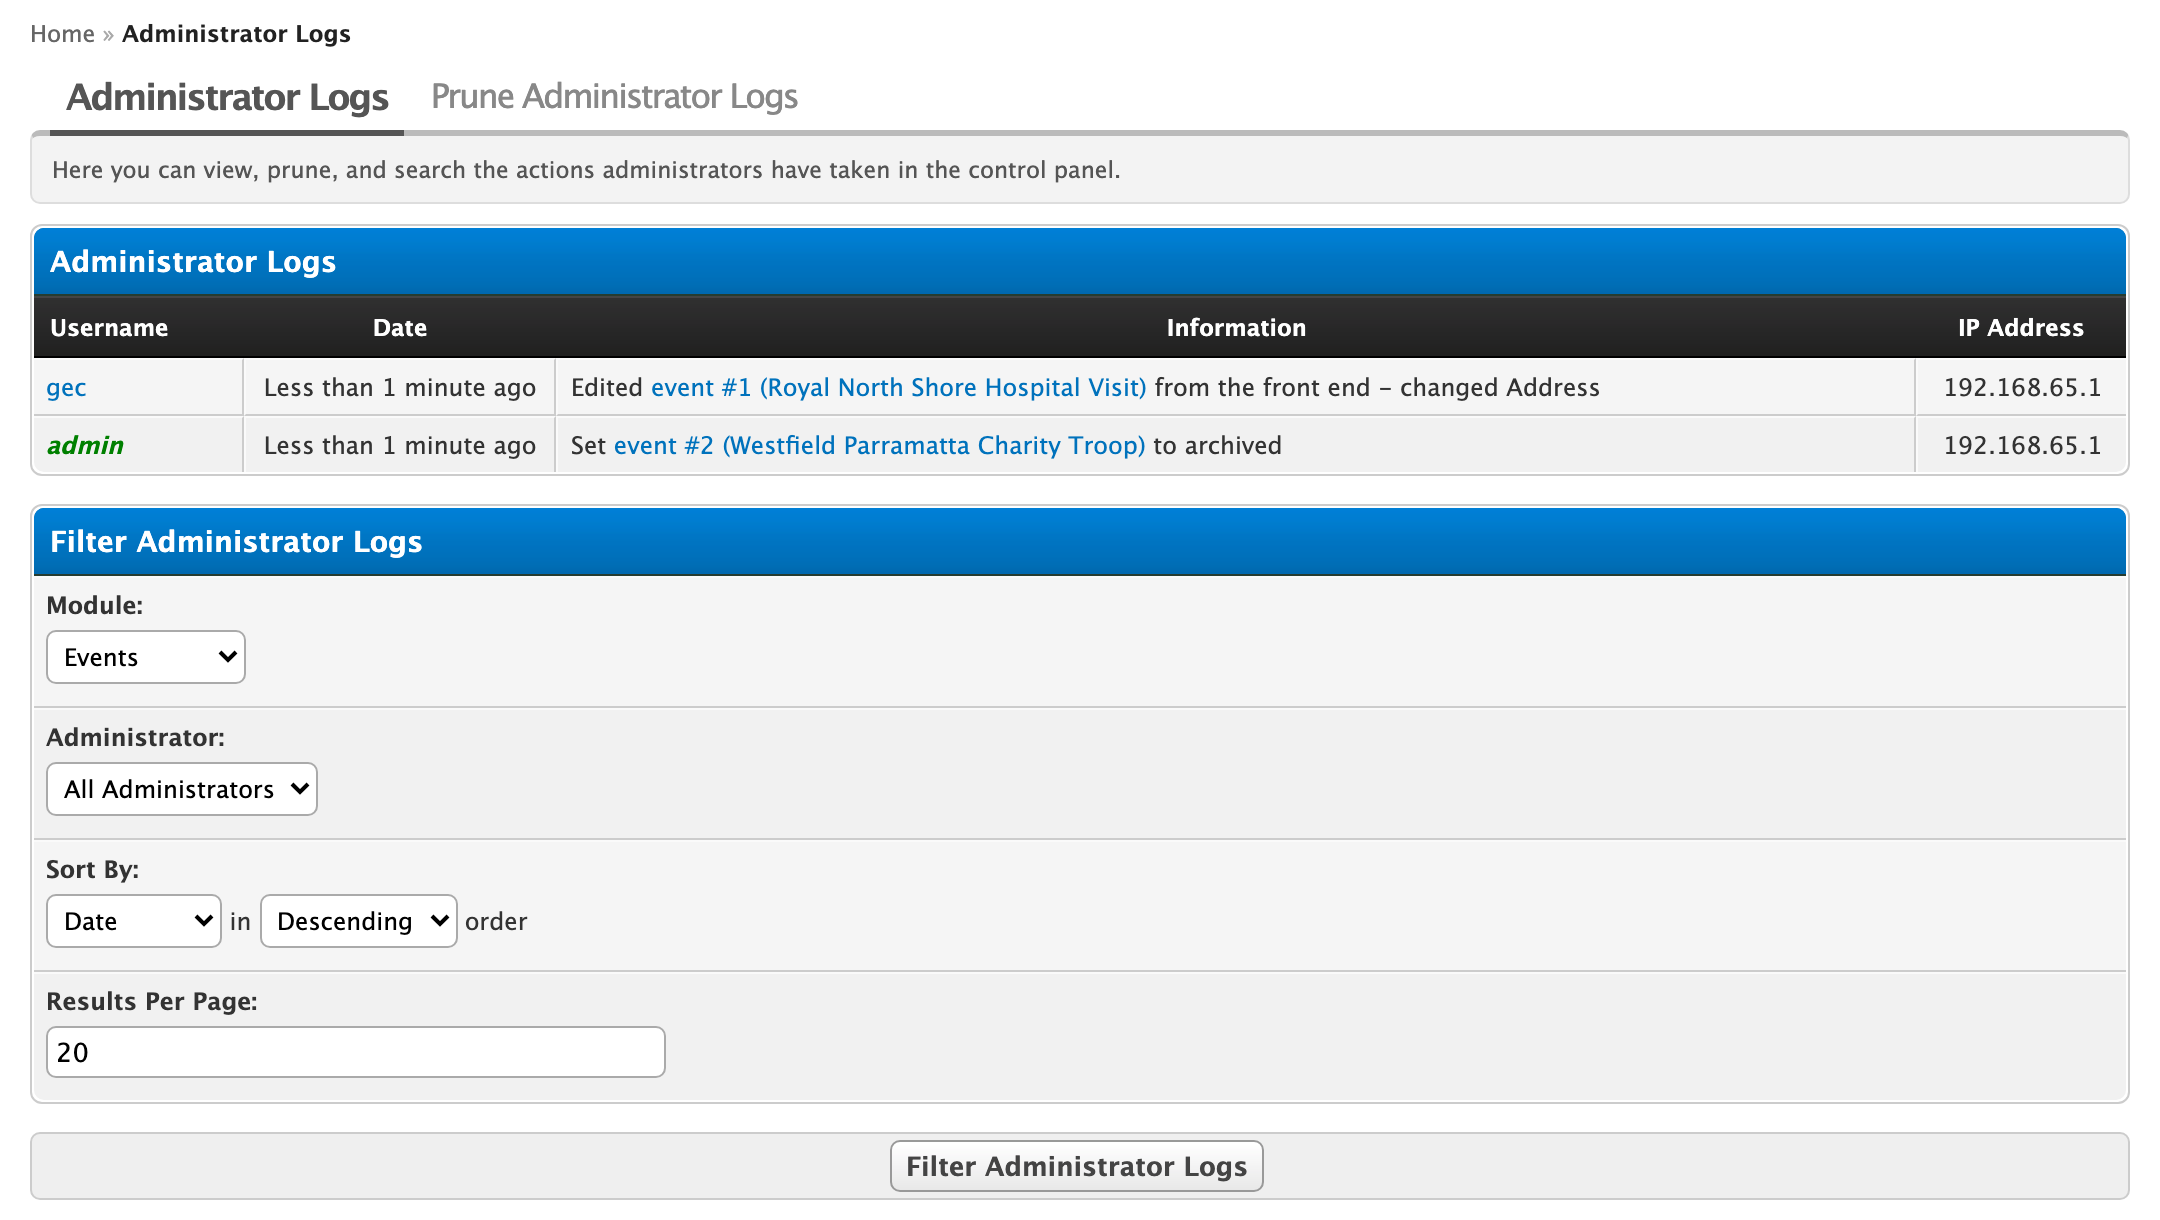
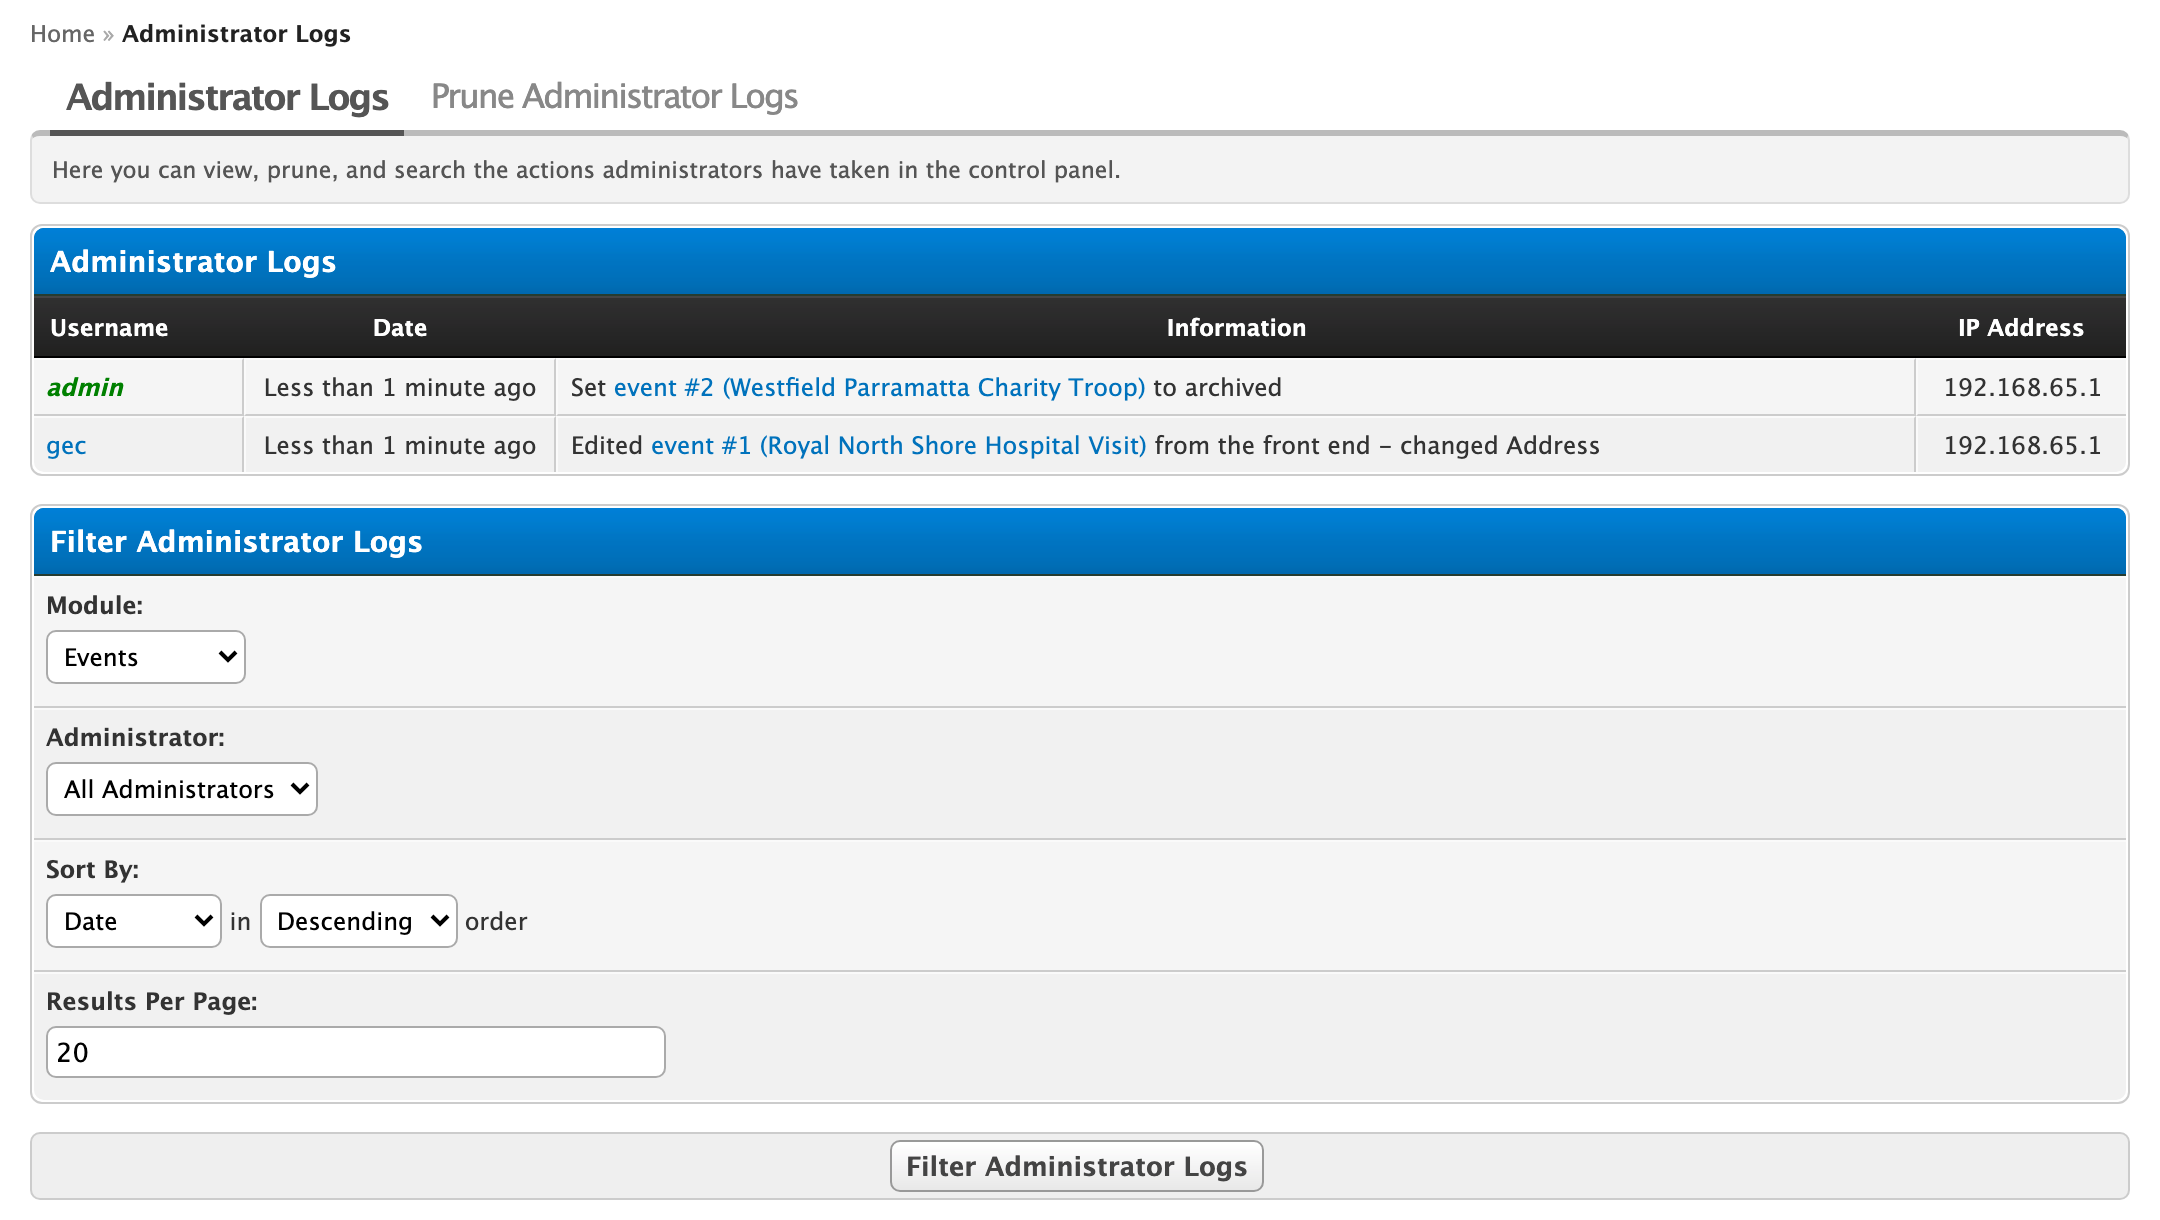
Added screenshots of nudging functionality.

Changed region(s): [[0.2481, 0.3115, 0.7444, 0.3738], [0.0, 0.3115, 0.062, 0.3738]]

diff --git a/docs/screenshots/admins.shots.ts b/docs/screenshots/admins.shots.ts
@@ -45,9 +45,27 @@ test.describe('admins', () => {
       await page.waitForURL(/showthread\.php/);
     }
 
+    // Something coming up, for the nudge's draft to suggest.
+    await createAnnouncedEvent({
+      title: 'Royal North Shore Hospital Visit',
+      start: relativeToTestNow({ days: 10 }),
+      end: relativeToTestNow({ days: 10, hours: 4 }),
+    });
+
     await loginToAdminCp(page);
     await gotoEventsAdmin(page, '&action=reports&view=people');
     await shot(page.locator('#content'), 'admins/reports-people');
+
+    const nudge = page.locator('a.events_nudge[data-username="trooper2"]');
+    await ring(nudge);
+    await shot(page.locator('#content'), 'admins/reports-nudge-link', { include: [nudge.locator('xpath=ancestor::tr[1]')] });
+
+    await nudge.click();
+    const dialog = page.locator('.events_nudge_dialog');
+    await expect(dialog).toBeVisible();
+    await ring(page.locator('#events_nudge_send'), page.locator('#events_nudge_copy'));
+    // The whole dialog: the minimums are bigger than it, and a crop never leaves the area.
+    await shot(dialog, 'admins/reports-nudge-dialog', { minWidth: 2000, minHeight: 2000 });
   });
 
   test('RSVPs', async ({ page }) => {
